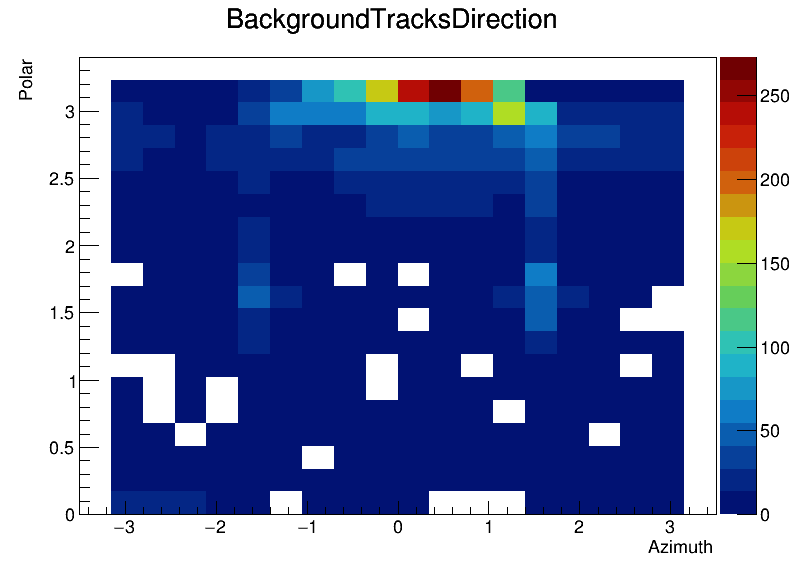
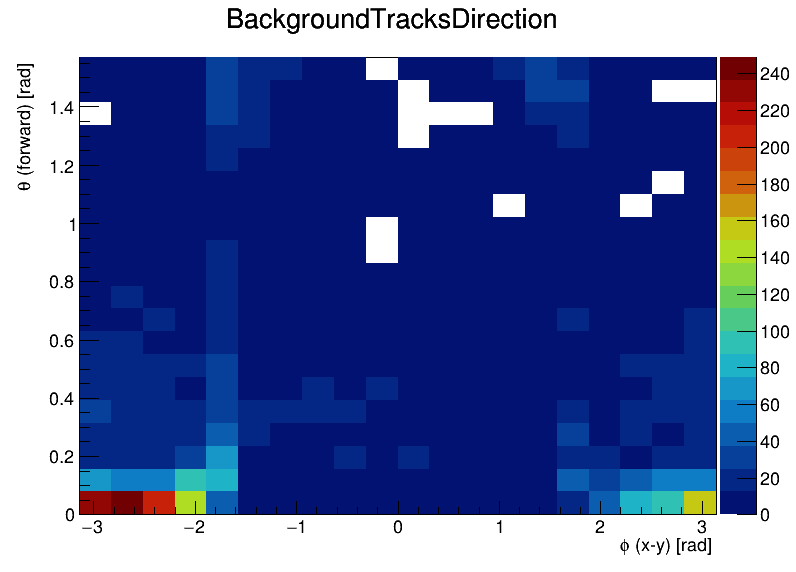
Correct direction plot

diff --git a/RecoDataAnalysis.cc b/RecoDataAnalysis.cc
@@ -234,9 +234,9 @@ void RecoDataAnalysis() {
     );
 
     TH2D* hBackgroundTracksDirection = new TH2D(
-        "hBackgroundTracksDirection", "BackgroundTracksDirection;Azimuth;Polar",
-        20, -TMath::Pi(), -TMath::Pi(),
-        20, 0, TMath::Pi()
+        "hBackgroundTracksDirection", "BackgroundTracksDirection;#phi (x-y) [rad];#theta (forward) [rad]",
+        20, -TMath::Pi(), TMath::Pi(),
+        20, 0, TMath::Pi() / 2
     );
 
     //////////////////////
@@ -350,14 +350,20 @@ void RecoDataAnalysis() {
                 if (isPrimaryTG) {
                     // Track information about background tracks
                     bool isBeginTrue = recoBeginZ->at(trk_idx) < recoEndZ->at(trk_idx);
-                    double incidentX = isBeginTrue ? recoBeginX->at(trk_idx) : recoEndX->at(trk_idx);
-                    double incidentY = isBeginTrue ? recoBeginY->at(trk_idx) : recoEndY->at(trk_idx);
 
-                    hBackgroundTracksPosition->Fill(incidentX, incidentY);
+                    const double xs = isBeginTrue ? recoBeginX->at(trk_idx) : recoEndX->at(trk_idx);
+                    const double ys = isBeginTrue ? recoBeginY->at(trk_idx) : recoEndY->at(trk_idx);
+                    const double zs = isBeginTrue ? recoBeginZ->at(trk_idx) : recoEndZ->at(trk_idx);
+
+                    const double xe = isBeginTrue ? recoEndX->at(trk_idx)   : recoBeginX->at(trk_idx);
+                    const double ye = isBeginTrue ? recoEndY->at(trk_idx)   : recoBeginY->at(trk_idx);
+                    const double ze = isBeginTrue ? recoEndZ->at(trk_idx)   : recoBeginZ->at(trk_idx);
+
+                    hBackgroundTracksPosition->Fill(xs, ys);
 
                     auto [phi, theta] = azimuth_polar_from_points(
-                        recoBeginX->at(trk_idx), recoBeginY->at(trk_idx), recoBeginZ->at(trk_idx),
-                        recoEndX->at(trk_idx), recoEndY->at(trk_idx), recoEndZ->at(trk_idx)
+                        xs, ys, zs,
+                        xe, ye, ze
                     );
                     hBackgroundTracksDirection->Fill(phi, theta);
                 }
